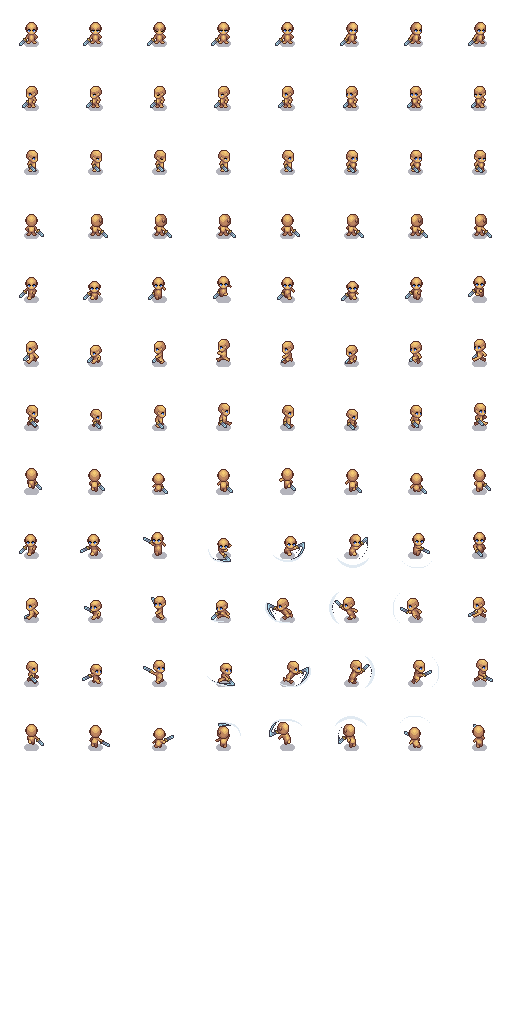
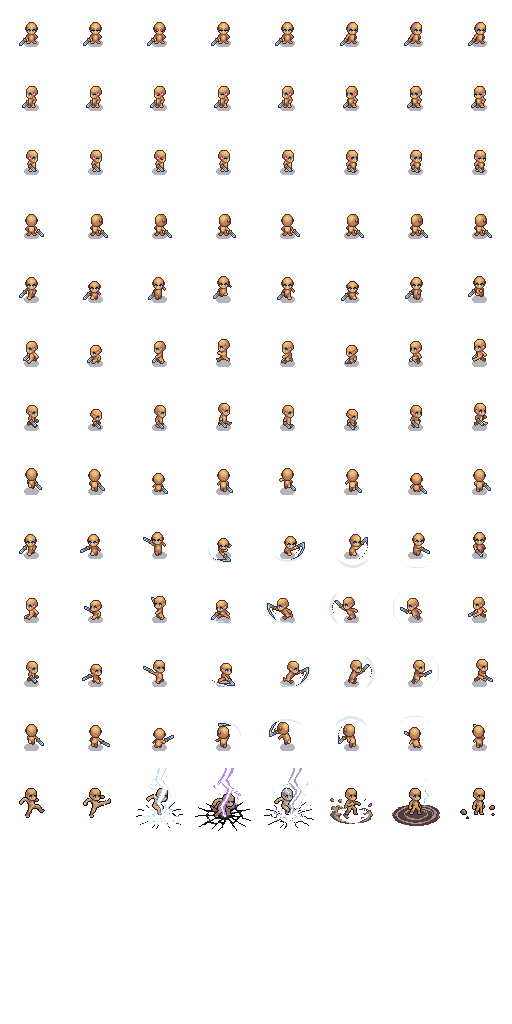
decouple attacks and animation

diff --git a/components/entity/Player.cpp b/components/entity/Player.cpp
@@ -103,7 +103,7 @@ void Player::update(float delta, int frame)
     direction_ = Direction::None;
 }
 
-void Player::attack(Direction dir)
+void Player::attack(Direction dir, AbilityAnim animType)
 {
     if (is_attacking_)
         return;
@@ -112,24 +112,31 @@ void Player::attack(Direction dir)
     attack_start_frame_ = frame_number_;
     setDirection(dir);
 
-    switch (dir)
+    anim_state_ = getAttackAnimState(dir, animType);
+}
+
+AnimationState Player::getAttackAnimState(Direction dir, AbilityAnim animType)
+{
+    switch (animType)
     {
-    case Direction::Up:
-        anim_state_ = AnimationState::SlashUp;
-        break;
-    case Direction::Down:
-        anim_state_ = AnimationState::SlashDown;
-        break;
-    case Direction::Left:
-        anim_state_ = AnimationState::SlashLeft;
-        break;
-    case Direction::Right:
-        anim_state_ = AnimationState::SlashRight;
-        break;
-    default:
-        anim_state_ = AnimationState::SlashRight;
-        break;
+        case AbilityAnim::Slash:
+            switch (dir)
+            {
+                case Direction::Up:    return AnimationState::SlashUp;
+                case Direction::Down:  return AnimationState::SlashDown;
+                case Direction::Left:  return AnimationState::SlashLeft;
+                default:                return AnimationState::SlashRight;
+            }
+        case AbilityAnim::Clap:
+            switch (dir)
+            {
+                case Direction::Up:    return AnimationState::ClapUp;
+                case Direction::Down:  return AnimationState::ClapDown;
+                case Direction::Left:  return AnimationState::ClapLeft;
+                default:                return AnimationState::ClapRight;
+            }
     }
+    return AnimationState::SlashRight;
 }
 
 std::vector<Ability> Player::loadAbilitiesForClass(PlayerClass playerClass)
@@ -145,7 +152,8 @@ std::vector<Ability> Player::loadAbilitiesForClass(PlayerClass playerClass)
                 .description = "A quick melee attack that deals damage.",
                 .damage = 20,
                 .cooldown = 3.0f,
-                .keybinding = {KEY_ONE}
+                .keybinding = {KEY_ONE},
+                .animType = AbilityAnim::Slash
 
             },
             Ability{
@@ -155,7 +163,11 @@ std::vector<Ability> Player::loadAbilitiesForClass(PlayerClass playerClass)
                 .description = "An AoE attack that deals damage to multiple enemies.",
                 .damage = 10,
                 .cooldown = 5.0f,
-                .keybinding = {KEY_TWO}}};
+                .keybinding = {KEY_TWO},
+                .animType = AbilityAnim::Clap
+            }
+            };
+            
     }
     return {};
 }

diff --git a/include/Animation.hpp b/include/Animation.hpp
@@ -22,9 +22,14 @@ enum class AnimationState
     WalkRight,
 
     SlashUp,
+    SlashDown,
     SlashLeft,
     SlashRight,
-    SlashDown
+
+    ClapUp,
+    ClapDown,
+    ClapLeft,
+    ClapRight
 
 };
 
@@ -56,6 +61,8 @@ inline AnimationData getAnimData(AnimationState state)
         return {10, NR_OF_FRAMES_ATTACKING};
     case AnimationState::SlashUp:
         return {11, NR_OF_FRAMES_ATTACKING};
+    case AnimationState::ClapRight:
+        return {12, NR_OF_FRAMES_ATTACKING};
     }
 
     return {0, 1};

diff --git a/include/Player.hpp b/include/Player.hpp
@@ -24,7 +24,8 @@ public:
     bool isAttacking() const { return is_attacking_; }
     int getAttackStartFrame() const { return attack_start_frame_; }
 
-    void attack(Direction dir);
+    void attack(Direction dir, AbilityAnim animType);
+    AnimationState getAttackAnimState(Direction dir, AbilityAnim animType);
     std::vector<Ability> loadAbilitiesForClass(PlayerClass playerClass);
     const std::vector<Ability>& getAbilities() const;
     int frame_number_ = 0;

diff --git a/source/Game.cpp b/source/Game.cpp
@@ -247,7 +247,8 @@ void Game::handleAbilityCast(const Ability &ability)
     MeleeRangeCircle target_circle = current_target->getMeleeHitbox();
     Direction facing = getDirectionToTarget(player_circle.center.x, player_circle.center.y, target_circle.center.x, target_circle.center.y);
 
-    player_.attack(facing);
+
+    player_.attack(facing, ability.animType);
     current_target->takeDamage(ability.damage);
 }
 

diff --git a/utils/include/Ability.hpp b/utils/include/Ability.hpp
@@ -7,6 +7,8 @@
 
 #include "Constants.hpp"
 
+enum class AbilityAnim { Slash, Clap };
+
 struct Keybind {
     int key = KEY_NULL;
     bool shift = false;
@@ -24,7 +26,7 @@ struct Ability
     int damage = 0;
     float cooldown = 0.0f;
     Keybind keybinding;
-    
+    AbilityAnim animType = AbilityAnim::Slash;
 };
 
 inline std::string keyToString(int key)

diff --git a/ui/ActionBar.cpp b/ui/ActionBar.cpp
@@ -94,7 +94,7 @@ int ActionBar::getHoveredSlot(size_t abilityCount) const
 {
     for (size_t i = 0; i < abilityCount; i++)
     {
-        if (CheckCollisionPointRec(g_mouse, getSlotBounds(i)))
+        if (CheckCollisionPointRec(mouse, getSlotBounds(i)))
             return (int)i;
     }
     return -1;

diff --git a/ui/include/ActionBar.hpp b/ui/include/ActionBar.hpp
@@ -22,7 +22,7 @@ public:
 
     Rectangle getActionBar() const;
     void setActionBarPos(Rectangle pos);
-    int getHoveredSlot(size_t abilityCount) const
+    int getHoveredSlot(size_t abilityCount) const;
 
     void setActionBarRows(int numOfRows);
     void setActionBarCols(int numOfCols);

diff --git a/ui/Window.cpp b/ui/Window.cpp
@@ -5,7 +5,7 @@ Window::Window()
   InitWindow(VIRTUAL_WIDTH, VIRTUAL_HEIGHT, "Da Game");
   SetExitKey(KEY_NULL); // stop closing app on pressing esc key
   SetTargetFPS(144);
-  toggleFullscreen();
+  // toggleFullscreen();
   target_ = LoadRenderTexture(VIRTUAL_WIDTH, VIRTUAL_HEIGHT);
 }
 

diff --git a/ui/Renderer.cpp b/ui/Renderer.cpp
@@ -16,6 +16,7 @@ Renderer::~Renderer()
 void Renderer::drawPlayer(const Player &player)
 {
     AnimationData anim = getAnimData(player.getAnimState());
+
     int wrappedFrame = 0;
     if (player.isAttacking())
     {
